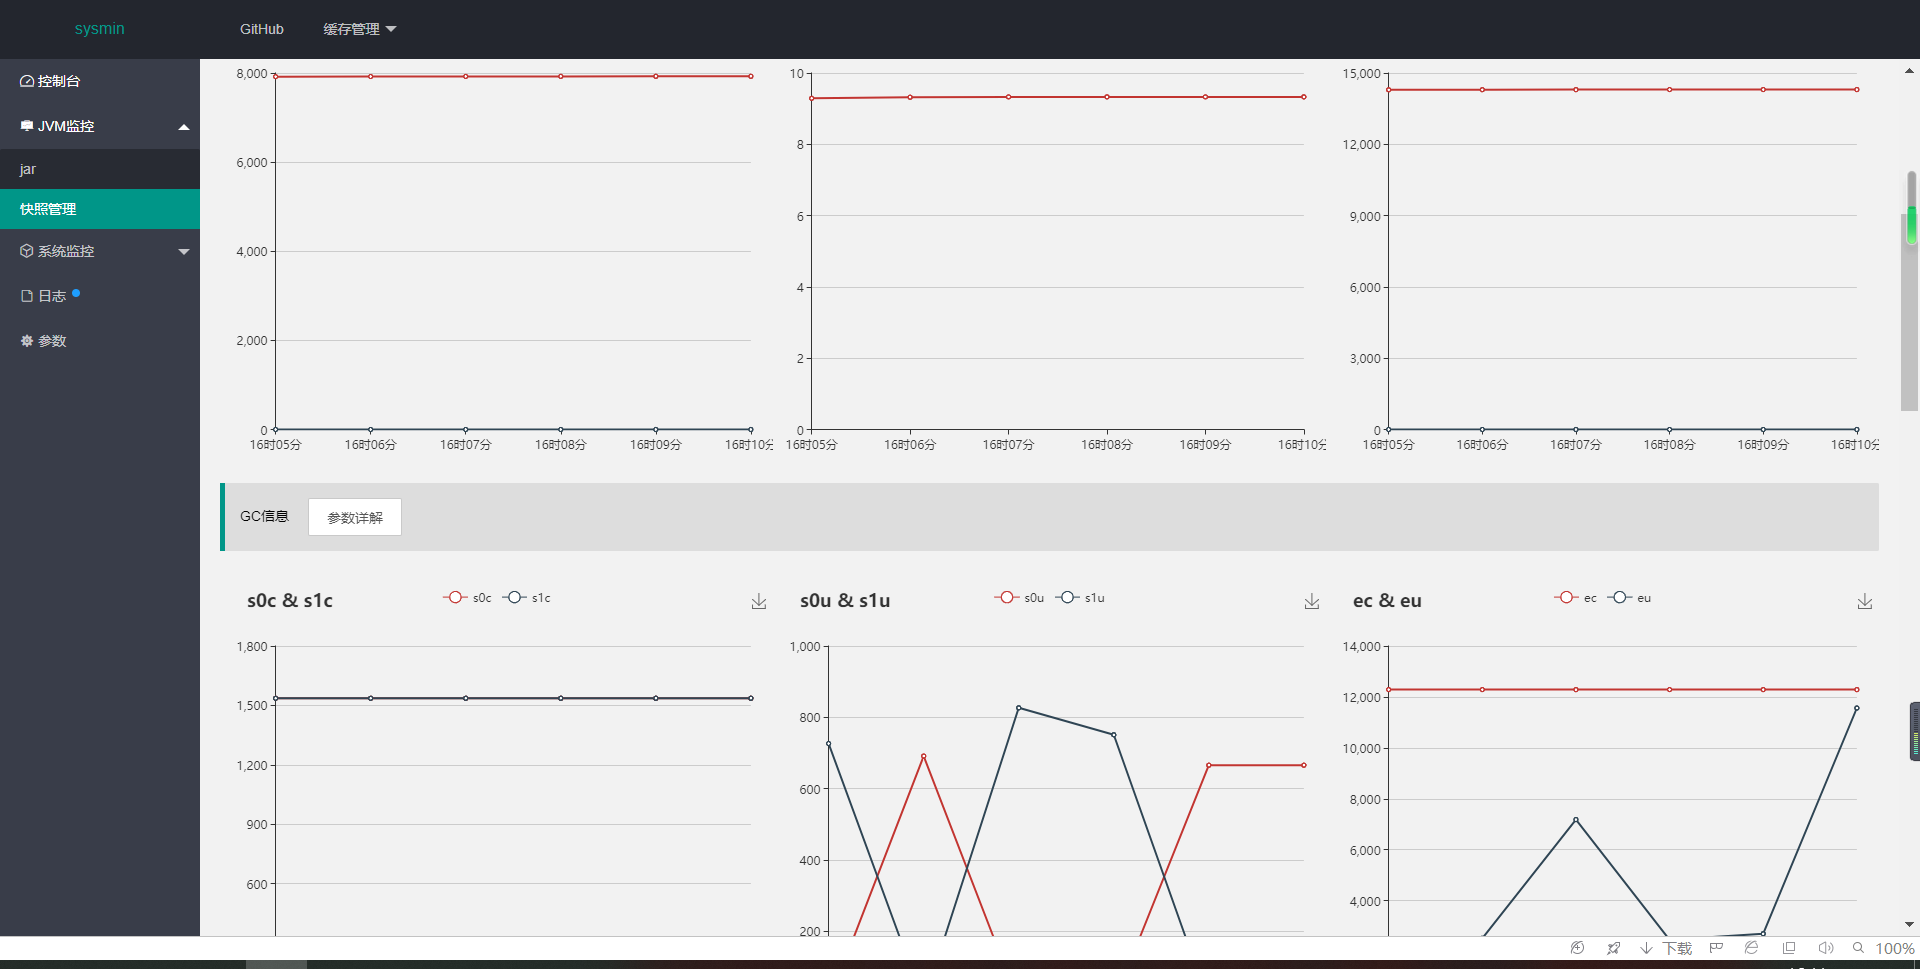
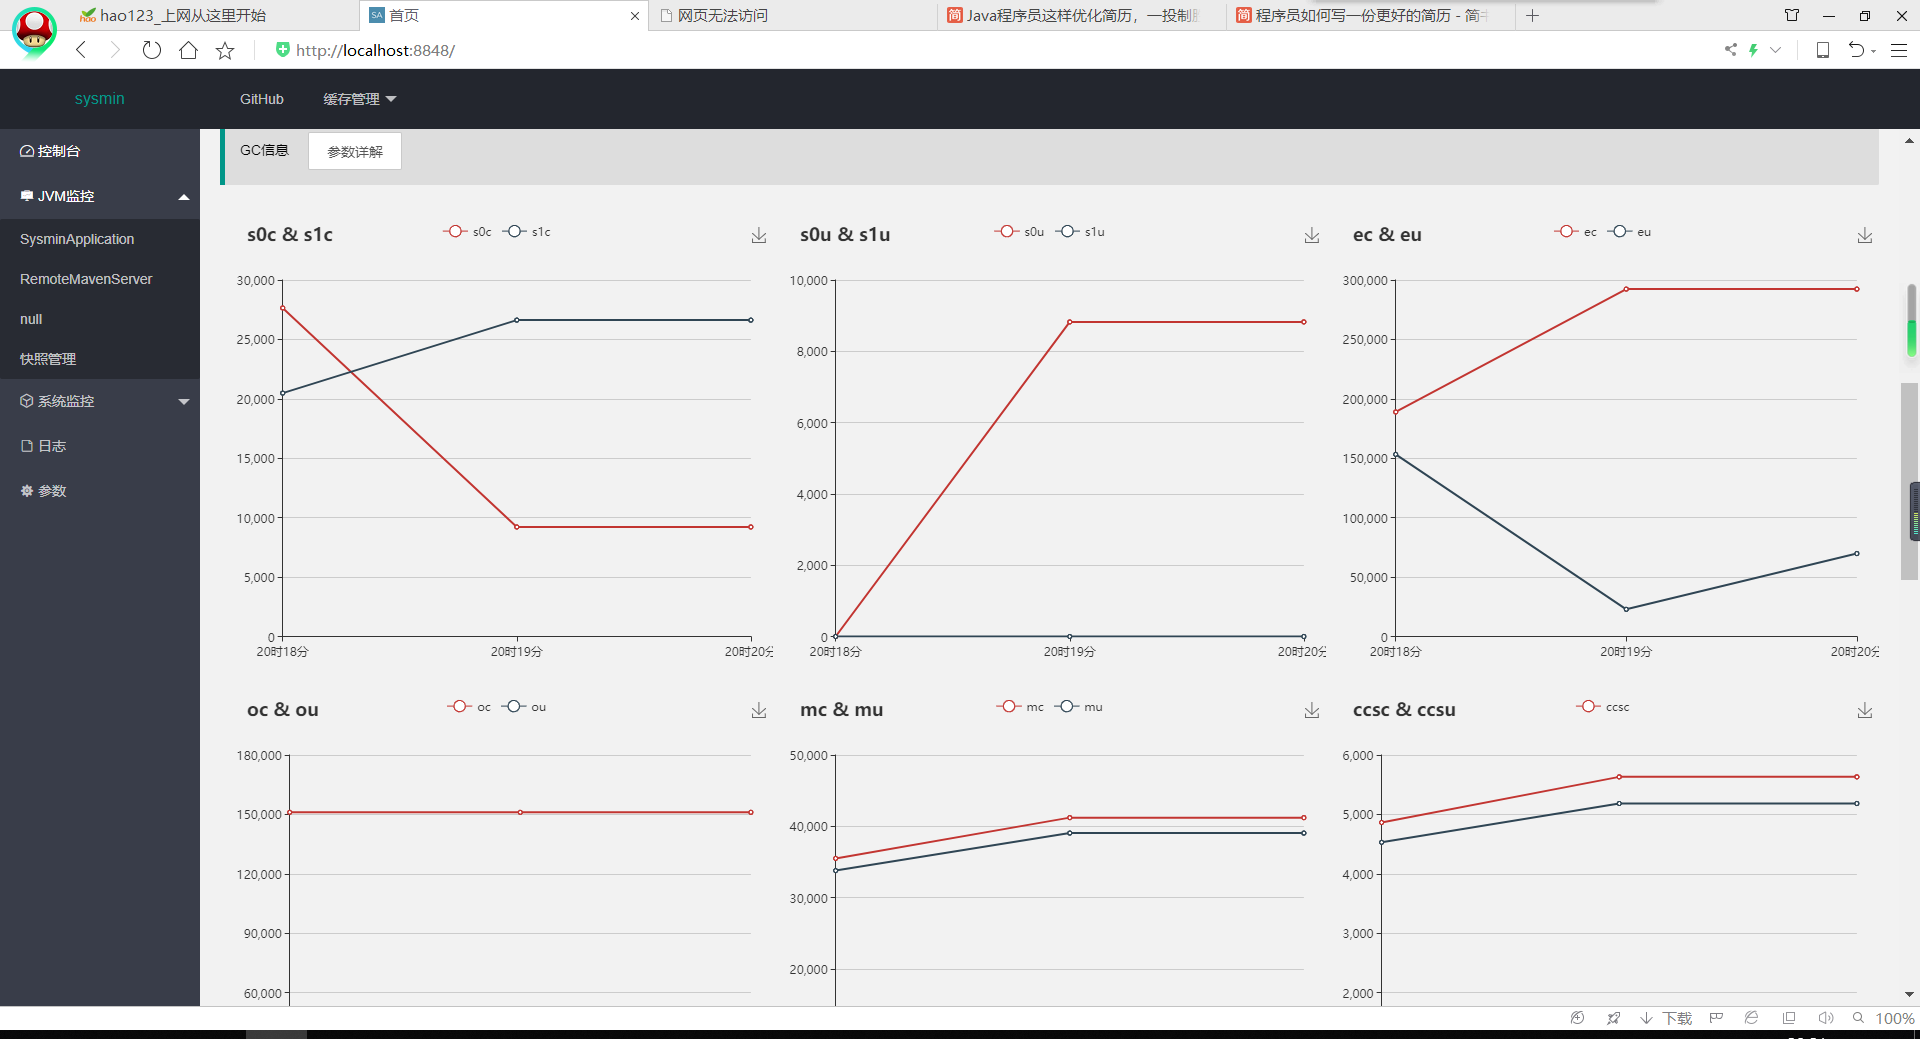
增加切图

diff --git a/README.md b/README.md
@@ -7,6 +7,8 @@
   切片图:
     ![Image text](/pic/jvm_status1.png)
     ![Image text](/pic/jvm_status2.png)
+    ![Image text](/pic/jvm_status3.png)
+    ![Image text](/pic/thread_snap_save.png)
     ![Image text](/pic/system_monitor.png)
     ![Image text](/pic/log_page.png)
     ![Image text](/pic/stack_snap.png)
